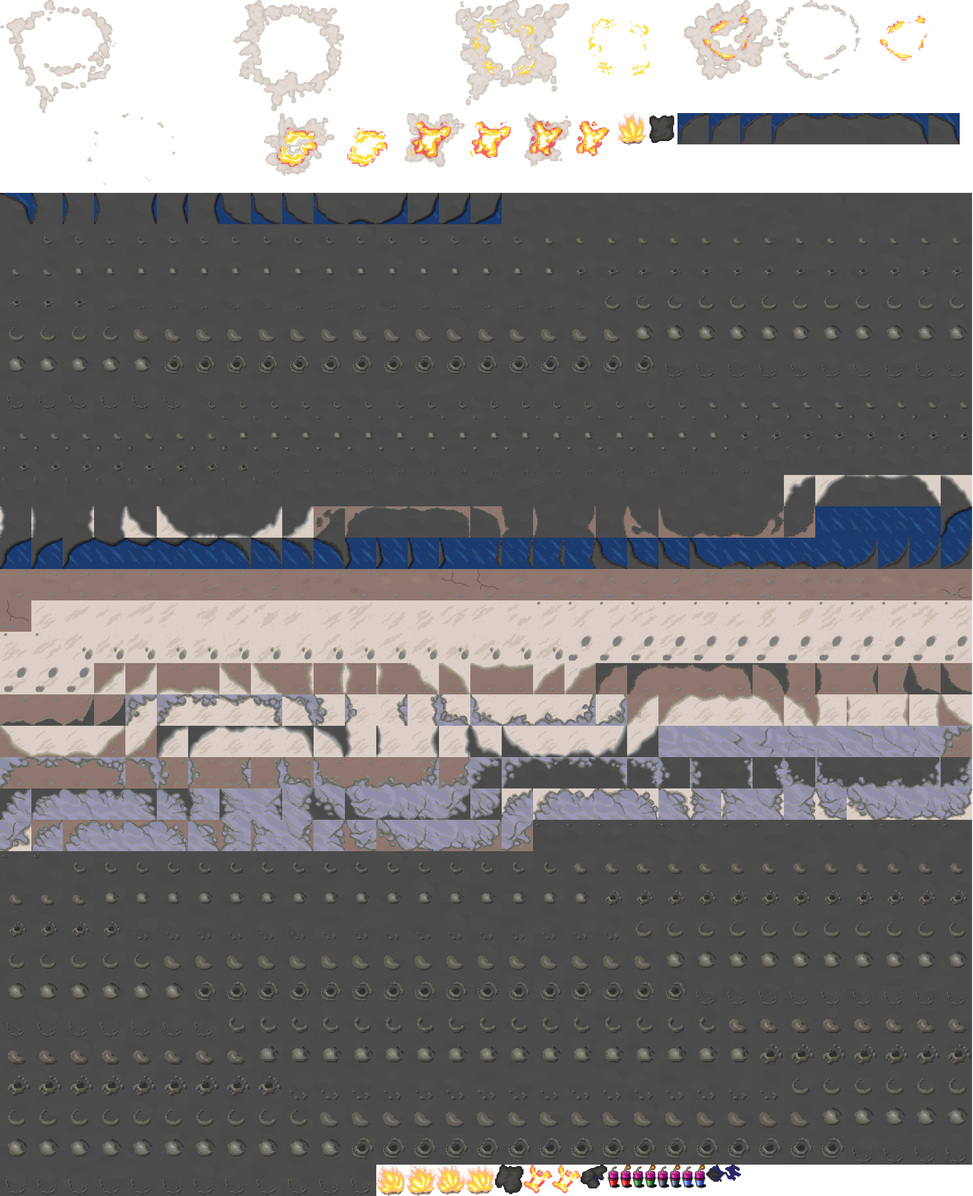
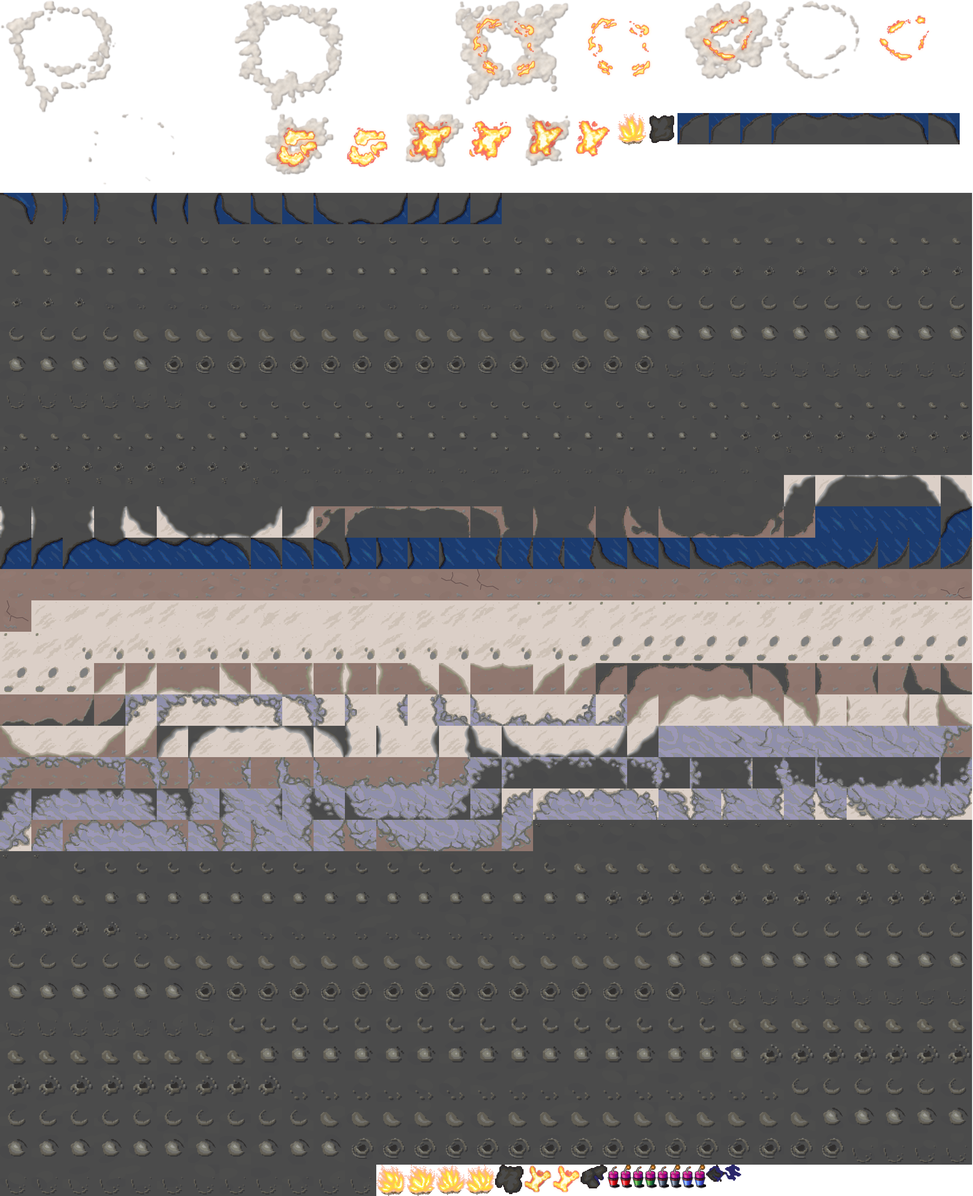
World art, batch 3: the smooth explosion replaces the second version
The maintainer approved the smooth redraw: the fire is one continuous heat field from a dark red rim to a
white core with a bloom round its hot parts, the smoke a volume of billowing puffs with a lit and a shaded
side, warmed by the fire near it; 1x, 2x and 3x are all averages of one painting (no hard step, no
recolored original pixels at 1x). The painter is ported into tools/world_art/explosion.py (every one of
the 60 pictures pixel for pixel the approved ones) and replaces the second version's; the sheets of the
first page change inside the explosion's pictures only (files 3.4 MB in all, 0.5 MB more). A frame's
light now carries the bloom, so the pack test lets it be 64 levels of opacity above its frame.

diff --git a/tools/world_art/explosion.py b/tools/world_art/explosion.py
@@ -1,14 +1,15 @@
-"""The bomb's explosion (sprites 306 to 315, the ten frames of the blast): the approved version, drawn as light (README.md).
+"""The bomb's explosion (sprites 306 to 315, the ten frames of the blast): the approved smooth version, drawn as light (README.md).
 
-The original's own shapes, frames, sizes and offsets are kept; what changes is how the picture sits on the world, as with the fire wall (fire.py): no outline, see-through.
-  - The fireball has six hard color steps from red to the white core and an opacity by heat (0.72 at the red rim to 0.98 in the white core), a soft edge that fades out, no outline.
-  - The smoke is a matte, see-through veil in the original's three tones: its ragged cloud kept, its opacity 0.72 to 0.85 by tone, a little uneven inside, fading out at the edge instead of
-    ending in a line. The ground, the water and the ant show through it where it is thin.
-Each frame is two pictures: the whole (smoke and fire), packed under its sprite's number, and the light (the fire alone, over nothing), packed under 30000 plus it, for a pass that adds the fire
-to the ground as light. 1x is the original's pixels, each with its class's color and opacity.
+The original's own shapes, frames, sizes and offsets are kept (where the fire and the smoke are comes from the original's frames, read as classes: classify); what changes is how the picture sits on
+the world, as with the fire wall (fire.py): no outline, see-through, and no hard step anywhere.
+  - The fire is one continuous heat field: a smooth color and opacity ramp from the dark red rim through orange and yellow to a white core, a fine curl of flame on it, and a bloom round the hot parts.
+  - The smoke is a volume: billowing puffs with a lit side (toward the upper left) and a shaded side, lit warm by the fire near it, its rim broken up by the billows and fading out at a soft edge; its
+    opacity is 0.72 to 0.85 by the original's tone. The ground, the water and the ant show through it where it is thin.
+Each frame is two pictures: the whole (smoke and fire), packed under its sprite's number, and the light (the fire and its bloom alone, over nothing), packed under 30000 plus it, for a pass that adds
+the fire to the ground as light. No color of the original is copied: only its shapes and how light its smoke is.
 
-The drawing is on a master of 12 samples for each world pixel (and a margin of 4 pixels, cut off again), in single precision as it was approved; 3x and 2x are averages of it. The smoke's
-unevenness is a value noise (Pillow's bicubic enlargement of a seeded random grid), so it is as reproducible as Pillow's resize is.
+The drawing is on a master of 12 samples for each world pixel (and a margin of 4 pixels, cut off again), in single precision as it was approved; 1x, 2x and 3x are all averages of that one
+painting. The unevenness of the smoke and the flame is a value noise (Pillow's bicubic enlargement of a seeded random grid), so it is as reproducible as Pillow's resize is.
 """
 import math
 
@@ -20,9 +21,11 @@ from catalog import sprite
 SS = 12                                                             # master samples for each world pixel
 PAD = 4                                                             # world pixels of margin round a sprite while it is drawn
 F = np.float32
-HEAT = [(214, 34, 40), (250, 62, 66), (255, 112, 60), (255, 168, 12), (255, 222, 36), (255, 255, 238)]     # the six steps of the fireball, coolest red to the white core
-HEAT_ALPHA = [0.0, 0.72, 0.78, 0.74, 0.80, 0.90, 0.98]             # their opacity (index 0: none)
-SMOKE_ALPHA = (0.72, 0.85)                                          # the smoke's opacity: its darkest tone to its lightest
+LIGHT = np.array([-0.62, -0.78])                                    # toward the light on screen (up and left), as in the original's shading
+RAMP_T = [0.0, 0.08, 0.20, 0.36, 0.54, 0.72, 0.90, 1.0]            # the fire's heat ...
+RAMP_C = [(150, 14, 24), (206, 30, 38), (246, 58, 60), (255, 108, 54), (255, 164, 22), (255, 216, 44), (255, 246, 170), (255, 255, 240)]       # ... to its color: dark red, the red rim, orange, yellow, the white core
+RAMP_A = [0.0, 0.55, 0.74, 0.78, 0.80, 0.88, 0.95, 0.98]           # ... to its opacity
+SMOKE_ALPHA = (0.72, 0.85)                                          # the smoke's opacity: its thin parts to its thick parts
 
 
 def box(a, r, axis):
@@ -149,59 +152,81 @@ def classify(number):
     return a[..., :3], al, smoke, lev
 
 
+def mix(a, b, t):
+    a = np.asarray(a, F)
+    b = np.asarray(b, F)
+    if np.ndim(t) == 2 and (a.ndim in (1, 3) or b.ndim in (1, 3)):
+        t = t[..., None]
+    return a * (1 - t) + b * t
+
+
+def ramp(t, ys):
+    ys = np.asarray(ys, F)
+    if ys.ndim == 2:
+        return np.stack([np.interp(t, RAMP_T, ys[:, c]) for c in range(ys.shape[1])], -1).astype(F)
+    return np.interp(t, RAMP_T, ys).astype(F)
+
+
+def fbm(shape, cell, seed, octaves=4):
+    """smooth noise of several sizes, about -1 to 1"""
+    out = np.zeros(shape, F)
+    amp = 1.0
+    tot = 0.0
+    for o in range(octaves):
+        out += amp * noise(shape, max(2.0, cell * SS / 2 ** o), seed * 31 + o)
+        tot += amp
+        amp *= 0.55
+    return out / tot
+
+
 def paint(number):
-    """the frame on the master: (color, opacity) of the whole, (color, opacity) of the fire alone, and the classes"""
+    """the frame on the master: (color, opacity) of the whole and (color, opacity) of the fire and its bloom alone"""
     rgb1, al1, smoke1, lev1 = classify(number)
-    fire1 = lev1 > 0
     H, W = (al1.shape[0] + 2 * PAD) * SS, (al1.shape[1] + 2 * PAD) * SS
-    # the smoke: one veil under the fire, the original's ragged shape, fading at its edge, a little uneven inside
-    sa = sstep(0.22, 0.66, field(al1, 0.55))
-    lum1 = rgb1 @ np.array([0.3, 0.6, 0.1])
-    tone = mblur(np.repeat(lum1[..., None], 3, 2), smoke1, 0.7)[..., 0] if smoke1.any() else np.full((H, W), 180.0, F)
-    scol = mblur(rgb1, smoke1, 0.6) if smoke1.any() else np.zeros((H, W, 3), F) + 200
-    A = sa * (SMOKE_ALPHA[0] + (SMOKE_ALPHA[1] - SMOKE_ALPHA[0]) * sstep(160, 205, tone)) * (0.9 + 0.1 * noise((H, W), 2.5 * SS, number))
-    col = scol.copy()
-    FA = np.zeros((H, W), F)
-    fcol = np.zeros((H, W, 3), F)
-    if fire1.any():
-        K = np.zeros((H, W), int)
-        prev = None
-        for k in range(1, 7):                                       # the heat steps lie one inside the next
-            reg = field(lev1 >= k, 0.45) > 0.5
-            if prev is not None:
-                reg &= prev
-            K[reg] = k
-            prev = reg
-        fade = sstep(0.20, 0.62, field(fire1, 0.42))
-        FA = gblur(np.array(HEAT_ALPHA, F)[K], 0.14 * SS) * fade
-        fcol = np.array(HEAT, F)[np.clip(K - 1, 0, 5)]
-        fcol = np.where((K > 0)[..., None], fcol, np.array(HEAT[0], F))
-        col = col * (1 - FA[..., None]) + fcol * FA[..., None]
+    shape = (H, W)
+    # the smoke: a volume
+    body = field(al1, 0.75)
+    wide = field(al1, 1.6)
+    billow = fbm(shape, 5.0, number, 3)
+    fine = fbm(shape, 2.0, number + 50, 2)
+    thick = sstep(0.10, 0.92, body * (1 + 0.42 * billow) + 0.14 * wide)                 # how much smoke is in the way: full in the middle of a puff, thinning to nothing, its rim broken up by the billows
+    hgt = gblur(thick * (1 + 0.60 * billow + 0.10 * fine), 1.1 * SS)
+    gy, gx = np.gradient(hgt)
+    slope = (gx * LIGHT[0] + gy * LIGHT[1]) * SS * 1.6                                   # lit where the puff's side faces the upper left
+    shade = np.clip(0.90 + 0.30 * np.tanh(-slope * 1.5) + 0.10 * (hgt - 0.5), 0.60, 1.14)
+    tone = mblur(np.repeat((rgb1 @ np.array([0.3, 0.6, 0.1]))[..., None], 3, 2), smoke1, 0.9)[..., 0] if smoke1.any() else np.full(shape, 190.0, F)       # only how light the original's smoke is there (its three tones), not its color
+    k = sstep(150, 212, tone)
+    base = mix(np.array((150, 140, 134), F), np.array((226, 216, 204), F), k)
+    scol = base * shade[..., None]
+    scol = mix(scol, np.array((112, 104, 104), F), np.clip(0.55 - shade, 0, 1) * 0.9)  # the shaded side falls a little cool and dark
+    A = thick * (SMOKE_ALPHA[0] + (SMOKE_ALPHA[1] - SMOKE_ALPHA[0]) * k) * np.clip(0.90 + 0.14 * fine, 0, 1)
+    # the fire: one heat field
+    FA = np.zeros(shape, F)
+    fcol = np.zeros(shape + (3,), F)
+    col = scol
+    LA = FA
+    if (lev1 > 0).any():
+        heat1 = np.array([0.0, 0.20, 0.36, 0.52, 0.68, 0.84, 1.0], F)[lev1]
+        soft = gblur(up(pad(heat1)), 0.62 * SS)
+        core = gblur(up(pad(heat1)), 0.30 * SS)
+        T = np.clip(0.62 * soft + 0.40 * core, 0, 1)
+        T = np.clip(T ** 1.25 + 0.10 * fbm(shape, 1.6, number + 90, 3) * sstep(0.04, 0.3, T), 0, 1)      # smooth, with the fine curl of flame
+        fcol = ramp(T, RAMP_C)
+        FA = ramp(T, RAMP_A) * sstep(0.015, 0.16, T)
+        warm = np.clip(gblur(FA, 2.6 * SS) * 1.8, 0, 1)
+        scol = mix(scol, scol * np.array((1.10, 0.90, 0.66), F) + np.array((26, 8, 0), F), warm * 0.75)   # the smoke near the fire is lit warm by it
+        col = scol * (1 - FA[..., None]) + fcol * FA[..., None]
         A = A * (1 - FA) + FA
-    return col, A, fcol, FA, (rgb1, al1, smoke1, lev1)
-
-
-def pixels_1x(rgb1, smoke1, lev1, light):
-    """1x: the original's pixels, each with its class's color and opacity (the smoke keeps the original's color); the light is the fire alone"""
-    h, w = smoke1.shape
-    out = np.zeros((h, w, 4), np.uint8)
-    if not light:
-        lum = rgb1 @ np.array([0.3, 0.6, 0.1])
-        sa = SMOKE_ALPHA[0] + (SMOKE_ALPHA[1] - SMOKE_ALPHA[0]) * np.clip((lum - 160) / 45.0, 0, 1)
-        out[smoke1, :3] = rgb1[smoke1]
-        out[smoke1, 3] = np.round(sa[smoke1] * 255)
-    for k in range(1, 7):
-        m = lev1 == k
-        out[m, :3] = HEAT[k - 1]
-        out[m, 3] = int(round(HEAT_ALPHA[k] * 255))
-    return out
+        bloom = np.clip(gblur(FA * T, 1.5 * SS) * 1.5, 0, 1) * 0.55                      # the light picture: the fire, and a bloom round its hot parts
+        LA = np.clip(FA + bloom * (1 - FA), 0, 1)
+        fcol = mix(np.array((255, 176, 70), F) * np.ones(shape + (3,), F), fcol, np.clip(FA / np.maximum(LA, 1e-4), 0, 1))
+    ys, xs = np.mgrid[0:H, 0:W]
+    edge = np.minimum(np.minimum(xs - PAD * SS, (W - PAD * SS - 1) - xs), np.minimum(ys - PAD * SS, (H - PAD * SS - 1) - ys)) / SS
+    fade = np.clip(edge / 1.5, 0, 1).astype(F)                                           # nothing is cut by the sprite's border: the last pixel and a half fades out
+    return np.clip(col, 0, 255), A * fade, fcol, LA * fade
 
 
 def explosion_pictures(number):
     """({scale: RGBA array} of the whole frame, the same of its light) of the explosion's frame `number` (the original's sprite 306 to 315)"""
-    col, A, fcol, FA, (rgb1, al1, smoke1, lev1) = paint(number)
-    whole, light = {}, {}
-    for scale in (1, 2, 3):
-        whole[scale] = pixels_1x(rgb1, smoke1, lev1, False) if scale == 1 else down(col, A, scale)
-        light[scale] = pixels_1x(rgb1, smoke1, lev1, True) if scale == 1 else down(fcol, FA, scale)
-    return whole, light
+    col, A, fcol, FA = paint(number)
+    return {scale: down(col, A, scale) for scale in (1, 2, 3)}, {scale: down(fcol, FA, scale) for scale in (1, 2, 3)}

diff --git a/tests/scripts/test_world_art_pack.py b/tests/scripts/test_world_art_pack.py
@@ -10,7 +10,7 @@ Nothing is drawn here (drawing takes about 40 seconds): the committed manifest a
     plus the bubble sprites 641 to 650, each the size of its sprite: 32 x 32), the four teams' bombs 298 to 305, the explosion 306 to 315 with its light (30000 plus them) and the fire wall (50000
     plus the sprites 316 to 320), and variants 1 to 15 exist exactly for the plain tiles 640 to 657, 726 to 731 and 901 and the bigger bubbles;
   - TheEffects: the bombs are solid; the explosion, its light and the fire wall are see-through by heat (no opaque pixel, more than one level of opacity, not empty but for the light of the four
-    smoke-only frames), and a frame's light is never more opaque than the whole frame;
+    smoke-only frames), and a frame's light (the fire with the bloom round it) is never more than the bloom's share more opaque than the whole frame;
   - TheChecksAreNotVacuous: each rule above refuses a copy of the real data that is broken in that one way.
 Needs numpy and Pillow (the tests are skipped only on a machine that has none; CI has both).
 """
@@ -46,6 +46,7 @@ FIRE_WALL = {50000 + n for n in range(316, 321)}                # the fire wall'
 EFFECTS = BOMBS | EXPLOSION | EXPLOSION_LIGHT | FIRE_WALL
 SEE_THROUGH = EXPLOSION | EXPLOSION_LIGHT | FIRE_WALL           # drawn as light: opacity by heat
 NO_FIRE = {30312, 30313, 30314, 30315}                          # the last four frames of the blast are smoke only: their light is empty
+BLOOM = 64                                                      # how much more opaque (of 255) a frame's light may be than the frame itself: the glow round the hot parts of the fire reaches a little past it
 NUMBER = re.compile(r"0|[1-9][0-9]*")
 
 
@@ -173,15 +174,15 @@ def alpha_problems(arrays, sprites):
 
 
 def light_problems(arrays, sprites):
-    """a frame's light (the fire alone) is never more opaque than the whole frame, pixel for pixel"""
+    """a frame's light (the fire and the bloom round its hot parts) is never more than BLOOM more opaque than the whole frame, pixel for pixel"""
     out = []
     whole = {(n, s): pic for n, s, pic in crops(arrays, sprites, EXPLOSION)}
     for number, scale, pic in crops(arrays, sprites, EXPLOSION_LIGHT):
         other = whole.get((number - 30000, scale))
         if other is None or other.shape != pic.shape:
             out.append("the light %d at %dx has no whole picture of its size" % (number, scale))
-        elif (pic[..., 3] > other[..., 3]).any():
-            out.append("the light %d at %dx is more opaque than its frame" % (number, scale))
+        elif (pic[..., 3].astype(int) > other[..., 3].astype(int) + BLOOM).any():
+            out.append("the light %d at %dx is more opaque than its frame and the bloom" % (number, scale))
     return out
 
 
@@ -276,7 +277,7 @@ class TheEffects(Committed):
     def test_the_bombs_are_solid_and_the_explosion_its_light_and_the_fire_wall_are_see_through(self):
         self.assertEqual(alpha_problems(self.arrays, self.sprites), [])
 
-    def test_the_light_is_never_more_opaque_than_the_frame_it_belongs_to(self):
+    def test_the_light_is_never_more_opaque_than_the_frame_it_belongs_to_and_its_bloom(self):
         self.assertEqual(light_problems(self.arrays, self.sprites), [])
 
     def test_the_effects_are_each_one_picture_of_the_originals_size(self):
@@ -391,15 +392,17 @@ class TheChecksAreNotVacuous(Committed):
         self.picture_of(a, 1, record)[...] = 0
         self.assertEqual(len(alpha_problems(a, [record])), 1)
 
-    def test_a_light_that_is_more_opaque_than_its_frame_or_has_no_frame_is_found(self):
+    def test_a_light_that_is_more_opaque_than_its_frame_and_the_bloom_or_has_no_frame_is_found(self):
         wholes = [s for s in self.sprites if s[0] in (306, 30306)]
         arrays = {3: self.arrays[3].copy()}
         self.assertEqual(light_problems(arrays, wholes), [])
         light = next(s for s in wholes if s[0] == 30306)
         pic = self.picture_of(arrays, 3, light)
-        y, x = np.argwhere(pic[..., 3] > 0)[0]
         whole = self.picture_of(arrays, 3, next(s for s in wholes if s[0] == 306))
-        pic[y, x, 3] = min(255, int(whole[y, x, 3]) + 1)
+        y, x = np.argwhere((pic[..., 3] > 0) & (whole[..., 3] <= 180))[0]
+        pic[y, x, 3] = int(whole[y, x, 3]) + BLOOM          # as opaque as the frame and the whole bloom: allowed
+        self.assertEqual(light_problems(arrays, wholes), [])
+        pic[y, x, 3] = int(whole[y, x, 3]) + BLOOM + 1      # one level more: found
         self.assertEqual(len(light_problems(arrays, wholes)), 1)
         self.assertEqual(len(light_problems(arrays, [light])), 1)                              # its frame is not there
 

diff --git a/tools/world_art/README.md b/tools/world_art/README.md
@@ -28,12 +28,12 @@ Batches 1 and 1b: the ground, its edges and the bridge, and the bigger bubbles o
 | Bigger mud bubbles | the numbers 10641 to 10650 (medium) and 20641 to 20650 (large) | 20 numbers with 16 pictures each (the mud's 16 position variants) |
 | Bombs | 298 to 305 | 8 (the red, green, black and blue bomb, two frames each: the fuse not alight and alight) |
 | Explosion | 306 to 315 | 10 (the ten frames of the blast, smoke and fire) |
-| Explosion's light | the numbers 30306 to 30315 | 10 (the same frames' fire alone) |
+| Explosion's light | the numbers 30306 to 30315 | 10 (the same frames' fire and the bloom round its hot parts, alone) |
 | Fire wall | the numbers 50316 to 50320 | 5 (the wall's five frames) |
 
 That is every sprite that the animations 431 to 669 of the table use (the ground), the bridge, the 20 numbers of the bigger bubbles, the bombs, the explosion with its light and the fire wall: 345 numbers, 1,020 pictures at each scale, 675 of them variants. The variants of the gravel are the five kinds of ground that a rule of the game can choose by a cell's surroundings: 0 to 5 calm, 6 to 8 stony, 9 to 11 damp, 12 to 13 worn, 14 to 15 cracked; the mud's and the dirt's variants are sixteen quiet pictures that let a field not repeat.
 
-The bombs, the explosion and the fire wall are this project's own drawings too. The bomb is the original's canister drawn again in the game's own view: a short drum of charge with a flat round top standing in an open iron cup, the team's color a band round the cup, one light from the upper left, a thin dark outline; solid, and 12 x 24 world pixels like the sprite. The fire wall and the explosion are drawn as light: the original's shapes, flecks and frames kept, no outline, see-through by heat. The fire wall's opacity goes by the original's level of each pixel (the white core 0.98, the cool red-orange rim 0.30), its edge fades out over about a pixel, the coals lie under it as one ash bed. The explosion's fireball has six color steps from red to a white core (opacity 0.72 to 0.98) and its smoke is a matte veil in the original's three tones (opacity 0.72 to 0.85), fading out at its ragged edge. Each of the ten frames has a second picture, its light: the fireball alone, for a pass that adds it to the ground as light (the last four frames are smoke only, so their light is a picture with nothing in it). The fire wall is numbered 50000 plus its sprite, not by the sprite's own number, because the original's sprites 316 to 319 are also parts of the Fire ant's own animations, which keep the original's pictures. Every one of these pictures has its own alpha, which stays exactly as drawn (a picture of the explosion, the light or the fire wall has no opaque pixel).
+The bombs, the explosion and the fire wall are this project's own drawings too. The bomb is the original's canister drawn again in the game's own view: a short drum of charge with a flat round top standing in an open iron cup, the team's color a band round the cup, one light from the upper left, a thin dark outline; solid, and 12 x 24 world pixels like the sprite. The fire wall and the explosion are drawn as light: the original's shapes, flecks and frames kept, no outline, see-through by heat. The fire wall's opacity goes by the original's level of each pixel (the white core 0.98, the cool red-orange rim 0.30), its edge fades out over about a pixel, the coals lie under it as one ash bed. The explosion is drawn smooth, with no hard step: its fire is one continuous heat field, a color and opacity ramp from a dark red rim (opacity 0.55) through orange and yellow to a white core (0.98) with a fine curl of flame and a bloom round the hot parts, and its smoke is a volume of billowing puffs, lit on the side toward the upper left, shaded on the other, warmed by the fire near it, in the original's lightness (opacity 0.72 to 0.85) and fading out at a soft edge. Each of the ten frames has a second picture, its light: the fire and a bloom round its hot parts, alone, for a pass that adds it to the ground as light (the last four frames are smoke only, so their light is a picture with nothing in it). The fire wall is numbered 50000 plus its sprite, not by the sprite's own number, because the original's sprites 316 to 319 are also parts of the Fire ant's own animations, which keep the original's pictures. Every one of these pictures has its own alpha, which stays exactly as drawn (a picture of the explosion, the light or the fire wall has no opaque pixel).
 
 The bigger bubbles are for the deep middle of a big mud field. Each of the original's ten bubble frames (sprites 641 to 645, one set of bubbles, and 646 to 650, the other) is drawn again on the clean mud of each variant, the same drawing (the same colors, lit side, shaded side and cast shadow; the shadow and the soft edge grow with the bubble) about the point that its set's bubbles grow from, in two sizes: medium (the first set 1.6 times bigger, the second 1.07) and large (2.2 and 1.15). A picture's number is 10000 (medium) or 20000 (large) plus the frame's sprite number, so 10641 to 10650 and 20641 to 20650, each with the variants 0 to 15 and 32 x 32 like the sprite it grows from. No bubble reaches the outermost pixel rows or columns of its tile (`python3 tools/world_art/big_bubbles.py` checks it). Which cell shows which is the game's rule, in [`docs/WORLD_ART.md`](../../docs/WORLD_ART.md).
 
@@ -41,7 +41,7 @@ The bigger bubbles are for the deep middle of a big mud field. Each of the origi
 
 The art is this project's own drawing. It takes the shapes, places and colors of the decoded original sprites as its plan (where a fleck, a streak or a bubble is and how big, the regions of an edge tile and its outline band, the palette, each tile's rhythm) and draws every tile new, in one language: matte, flat colors, hard steps, one light from the upper left (a lit top, a shaded side, a small cast shadow), as quiet as the original. A picture is drawn once on a master of 12 x 12 samples for each world pixel; 3x and 2x are box averages of it, and 1x takes each pixel's most frequent color, so every 1x pixel is a color of the palette (pixel art in the original's colors). The bridge's 1x pictures are the original's own pixels.
 
-The bombs, the explosion and the fire wall are drawn on masters with an alpha instead: color is kept multiplied by its opacity while it is painted (`canvas.py`), so that the average of a see-through edge has no dark fringe; 3x and 2x are averages of it, with the opacity rounded to a whole number of 255 and the color divided by it again. The bomb's master is 6 samples for each world pixel (its 1x is an average too, so its outline at 1x has blended pixels); the fire wall's is 12, and its 1x is the original's own pixels, each with its level's color and opacity (every 1x pixel a color of the palette); the explosion's is 12 samples with a margin of 4 world pixels that is cut off again, in single precision as it was approved, and its 1x is the original's pixels with their class's color and opacity.
+The bombs, the explosion and the fire wall are drawn on masters with an alpha instead: color is kept multiplied by its opacity while it is painted (`canvas.py`), so that the average of a see-through edge has no dark fringe; 3x and 2x are averages of it, with the opacity rounded to a whole number of 255 and the color divided by it again. The bomb's master is 6 samples for each world pixel (its 1x is an average too, so its outline at 1x has blended pixels); the fire wall's is 12, and its 1x is the original's own pixels, each with its level's color and opacity (every 1x pixel a color of the palette); the explosion's is 12 samples with a margin of 4 world pixels that is cut off again, in single precision as it was approved, and its 1x, 2x and 3x are all averages of that one painting.
 
 | File | What it holds |
 |---|---|

diff --git a/docs/WORLD_ART.md b/docs/WORLD_ART.md
@@ -39,13 +39,13 @@ The original has edge tiles for most pairs of ground (water and mud, gravel and 
 ## Fire, bombs and the explosion
 
 - **The fire wall is light.** The approved fire (the original's shape and five frames, no outline, see-through by heat: the white-yellow core nearly opaque, the red rim and tips mostly transparent) is drawn twice, once blended at 0.85 of its own opacity and once added to what is under it at 0.25, over a warm orange glow on the ground (an ellipse of 64 x 40 world pixels round (16, 25) of the cell that falls smoothly to nothing, at most 64 of 255 added). The original's wall is drawn in the cell pass, under every ant; the light wall lies in the **y-sorted queue at the bottom of its cell**, so an ant in the cell or north of it is seen through the flames and warmed by the glow, and an ant south of it covers them. Fog of War's gate is the original's: a wall in an unexplored cell is not drawn. The Fire ant's own animations show the original's sprites 316 to 319, which stay the original's: the wall's pictures are the numbers 50316 to 50320.
-- **The explosion is light.** The approved second version of the bomb's explosion (the original's ten frames, sizes, offsets and times) is drawn through the effect queue as: a warm glow on the ground (the fireball's light blurred by 7 world pixels, times 2.2, at most 0.34 added; made once from the 1x picture and enlarged), the whole picture by its own opacity (a matte, see-through smoke and a fireball whose opacity goes by heat), and the fireball's light (the numbers 30306 to 30315) added once more at 0.25. The last four frames are smoke and have no light.
+- **The explosion is light.** The bomb's explosion (the original's ten frames, sizes, offsets and times) is drawn smooth, with no hard step in it: the fire is one continuous heat field from a dark red rim through orange and yellow to a white core, with a bloom round its hot parts, and the smoke is a volume of billowing puffs with a lit and a shaded side, lit warm by the fire near it. It is drawn through the effect queue as: a warm glow on the ground (the fire's light blurred by 7 world pixels, times 2.2, at most 0.34 added; made once from the 1x picture and enlarged), the whole picture by its own opacity (a see-through smoke and a fire whose opacity goes by heat), and the fire's light (the numbers 30306 to 30315) added once more at 0.25. The last four frames are smoke and have no light.
 - **The bombs.** The four teams' bombs, the approved design (seen from above like the original's, a cylinder head, a team-colored plate), are new pictures of the original's sprites 298 to 305, in the original's place and size, drawn in the cell pass as before. Fog of War hides them as before.
 - With Classic every one of them is the original's.
 
 ## Size
 
-Batches 1 to 3: 1,020 pictures; the files are 2.9 MB in all (the 1x sheet 186 KB, 2x 996 KB, 3x 1.68 MB, the manifest 48 KB), which the web build's data package grows by. In memory a sheet is a texture of its own scale, made when its first picture is drawn: 5.4 MB at 1x, 20.6 MB at 2x and 46.0 MB at 3x, and only the scales that a window has used are made (a zoomed pass needs the 1x one). No side of a sheet is above 4096. A map with a big mud field adds, while its deep cells are in view: at most 16 MB (8 MB in the browser) of baked pictures and looks, and the mud's own pictures cut from the sheet (7.7 MB at 2x, 1.9 MB at 1x; the mud is never baked at 3x); every other map adds nothing.
+Batches 1 to 3: 1,020 pictures; the files are 3.4 MB in all (the 1x sheet 299 KB, 2x 1.14 MB, 3x 1.96 MB, the manifest 48 KB), which the web build's data package grows by. In memory a sheet is a texture of its own scale, made when its first picture is drawn: 5.4 MB at 1x, 20.6 MB at 2x and 46.0 MB at 3x, and only the scales that a window has used are made (a zoomed pass needs the 1x one). No side of a sheet is above 4096. A map with a big mud field adds, while its deep cells are in view: at most 16 MB (8 MB in the browser) of baked pictures and looks, and the mud's own pictures cut from the sheet (7.7 MB at 2x, 1.9 MB at 1x; the mud is never baked at 3x); every other map adds nothing.
 
 ## What is not in it yet
 

diff --git a/CHANGELOG.md b/CHANGELOG.md
@@ -29,7 +29,7 @@ Work that is not released yet is written in the same template under a heading th
 ## Next
 
 **For players:**
-- **New ground** (the first part of the new world art). The settings row **HUD art** is now **Art**: one switch, New (the default) or Classic, for the whole look. Big mud fields get a deeper look in the middle (darker and wetter, faint ripples, color patches, bigger and more bubbles), growing with the distance from the banks. Where two plain tiles of different ground meet in a hard line (water against gravel, slate against dirt, and every other pair, in the players' maps), a natural transition is drawn: a bank on the water, soft steps between mud, gravel and dirt, rock for slate, thin on checkerboards. The fire wall and the bomb's explosion are drawn as light: see-through, glowing, with a warm glow on the ground (an ant in a fire is seen through the flames, one in front of it covers them); the four teams' bombs are redrawn. Gravel, dirt, slate, mud with its bubbles, water, the edges between them and the bridge the Swimmer digs are redrawn in the game's own matte, hand-drawn look, sharper at 2x and 3x, with sixteen pictures for a plain tile so that a field does not repeat. The tiles, the animations and the rules are the original's; Classic draws the original's sprites exactly as before.
+- **New ground** (the first part of the new world art). The settings row **HUD art** is now **Art**: one switch, New (the default) or Classic, for the whole look. Big mud fields get a deeper look in the middle (darker and wetter, faint ripples, color patches, bigger and more bubbles), growing with the distance from the banks. Where two plain tiles of different ground meet in a hard line (water against gravel, slate against dirt, and every other pair, in the players' maps), a natural transition is drawn: a bank on the water, soft steps between mud, gravel and dirt, rock for slate, thin on checkerboards. The fire wall and the bomb's explosion are drawn as light (the explosion smooth, with no hard step): see-through, glowing, with a warm glow on the ground (an ant in a fire is seen through the flames, one in front of it covers them); the four teams' bombs are redrawn. Gravel, dirt, slate, mud with its bubbles, water, the edges between them and the bridge the Swimmer digs are redrawn in the game's own matte, hand-drawn look, sharper at 2x and 3x, with sixteen pictures for a plain tile so that a field does not repeat. The tiles, the animations and the rules are the original's; Classic draws the original's sprites exactly as before.
 - **Special ants on a match's page.** A new section under the Scoreboard shows what each type of ant did: a card for each type that somebody had (Swimmer: bridges built and taken down; Fire Ant: fires lit and put out; Bomber: bombs set, defused and gone off; Thief: raids that brought loot home, "5 of 8", and the loot), and a card for food and fighting. A type that nobody used is left out with one line. Bombs set, Defused and Fires lit moved there from the Scoreboard. A match played before this release shows what was counted then (no bridges, fires put out or loot).
 
 **Fixes:**
